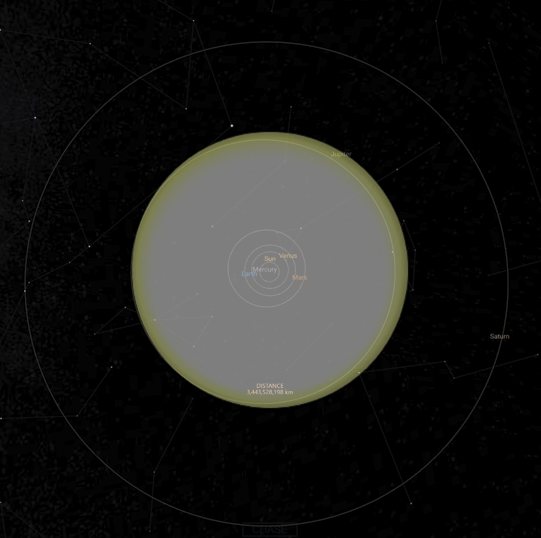
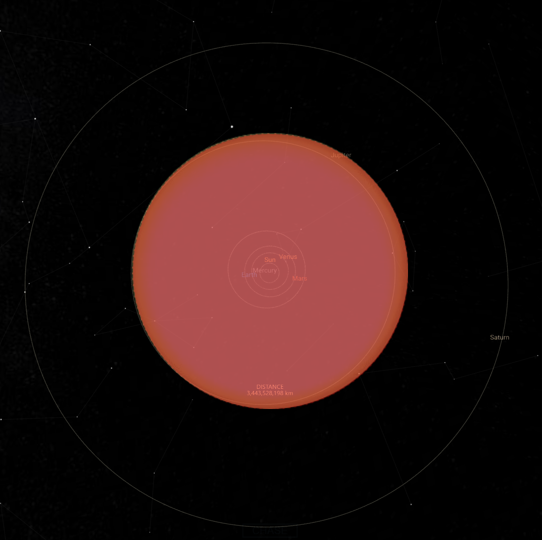
Add files via upload
Added images for more star colours, updated code to have conditionals based on the startype.

Changed region(s): [[0.2366, 0.2379, 0.7689, 0.7732], [0.9168, 0.5948, 0.9464, 0.6543]]

diff --git a/astrolibrary.py b/astrolibrary.py
@@ -157,13 +157,27 @@ def main():
                         break
                     
                 pstar_size = pinfo[2]
+                pstar_colour = pinfo[3]
+
 
                 if pstar_size < 231:
 
                     # PLANETARIUM 1
+                    
+                    if "M" in pstar_colour:
+                        star = Image.open("starred.png")
+                        
+                    elif "K" in pstar_colour:
+                        star = Image.open("starorange.png")
 
-                    star = Image.open("star.png")
+                    elif "B" or "A" or "O" in pstar_colour:
+                        star = Image.open("starblue.png")
+
+                    else:
+                        star = Image.open("star.png")
+                
                     imstar = star.copy()
+                   
 
                     planetarium1 = Image.open("planetarium1.png")
                     plan1 = planetarium1.copy()
@@ -197,8 +211,19 @@ def main():
                 elif pstar_size >= 231 and pstar_size <= 1300:
                 
                     # PLANETARIUM 2
-                    
-                    star = Image.open("star.png")
+                   
+                    if "M" in pstar_colour:
+                        star = Image.open("starred.png")
+                        
+                    elif "K" in pstar_colour:
+                        star = Image.open("starorange.png")
+
+                    elif "B" or "A" or "O" in pstar_colour:
+                        star = Image.open("starblue.png")
+
+                    else:
+                        star = Image.open("star.png")
+
                     imstar = star.copy()
 
                     planetarium2 = Image.open("planetarium2.png")
@@ -233,8 +258,19 @@ def main():
                 elif pstar_size > 1300:
                 
                     # PLANETARIUM 3
-                
-                    star = Image.open("star.png")
+                    
+                    if "M" in pstar_colour:
+                        star = Image.open("starred.png")
+                        
+                    elif "K" in pstar_colour:
+                        star = Image.open("starorange.png")
+
+                    elif "B" or "A" or "O" in pstar_colour:
+                        star = Image.open("starblue.png")
+
+                    else:
+                        star = Image.open("star.png")
+
                     imstar = star.copy()
 
                     planetarium3 = Image.open("planetarium3.png")
